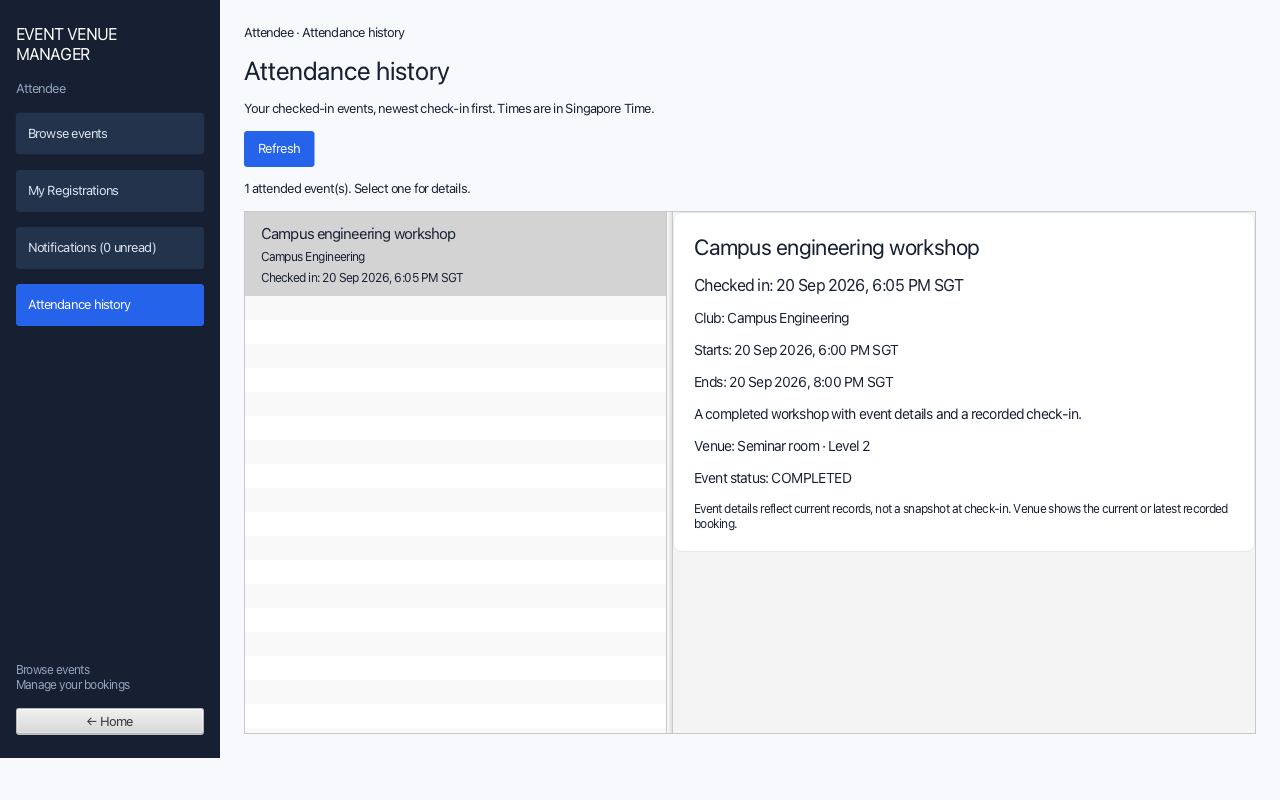
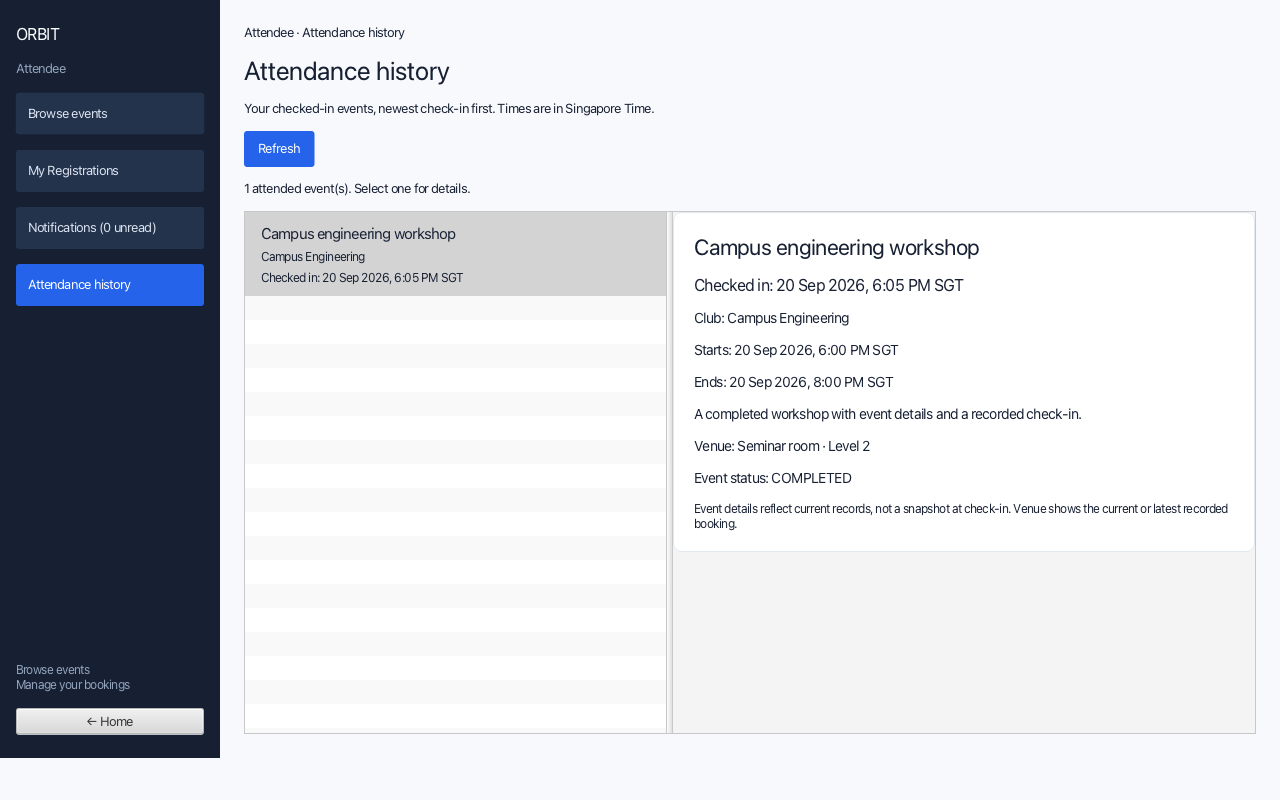
Rename the app to Orbit for v1.0.1
- Window title, login heading, role sidebars and --version show Orbit.
- Release jar is Orbit-<version>.jar and the release is titled Orbit <tag>;
  version 1.0.1.
- Diagnostic log folder is ~/.orbit/logs.
- README, guides and website use the Orbit name; four website screenshots
  re-captured from the Attendee smoke tasks.
- Database, schema, packages and .env variable names are unchanged.

Changed region(s): [[0.0, 0.0312, 0.1562, 0.4062]]

diff --git a/docs/index.html b/docs/index.html
@@ -1,7 +1,7 @@
 ---
 layout: default
 title: Campus events, all in one place
-description: Plan an event, find a venue and join your campus community with Orbit's Event Venue Manager.
+description: Plan an event, find a venue and join your campus community with Orbit, the campus event venue manager.
 ---
 <main id="main" tabindex="-1">
   <section class="hero container" aria-labelledby="hero-title">
@@ -29,7 +29,7 @@ description: Plan an event, find a venue and join your campus community with Orb
   <section class="product-preview container" aria-labelledby="preview-title">
     <div class="section-heading compact"><h2 id="preview-title">Your next campus event starts here.</h2><span class="eyebrow">Inside the desktop app</span></div>
     <figure class="screenshot">
-      <div class="window-label"><span aria-hidden="true">● ● ●</span> Event Venue Manager / Attendee workspace</div>
+      <div class="window-label"><span aria-hidden="true">● ● ●</span> Orbit / Attendee workspace</div>
       <a href="{{ '/assets/images/attendee-browse.png' | relative_url }}" aria-label="Open full-size screenshot of the Attendee workspace">
         <img src="{{ '/assets/images/attendee-browse.png' | relative_url }}" alt="Attendee Browse events screen with club and date filters, a list of events, and a side-by-side details panel showing venue, seats and check-in availability." width="1280" height="800" fetchpriority="high">
       </a>

diff --git a/src/main/java/seedu/eventmanager/Main.java b/src/main/java/seedu/eventmanager/Main.java
@@ -7,7 +7,7 @@ import javafx.application.Platform;
 import seedu.eventmanager.demo.DemoDataSeeder;
 import seedu.eventmanager.ui.EventManagerApplication;
 
-/** Starts the Event Venue Manager application. */
+/** Starts Orbit, the campus event venue manager. */
 public final class Main {
     /** The release version from the jar manifest (set by build.gradle), or "development" from source. */
     public static final String VERSION = versionOf(Main.class.getPackage().getImplementationVersion());
@@ -22,7 +22,7 @@ public final class Main {
     /** Starts the application. */
     public static void main(String[] args) {
         if (args.length == 1 && "--version".equals(args[0])) {
-            System.out.println("Event Venue Manager " + VERSION);
+            System.out.println("Orbit " + VERSION);
             return;
         }
         if (args.length == 1 && "--seed-demo".equals(args[0])) {

diff --git a/src/main/java/seedu/eventmanager/common/DiagnosticLog.java b/src/main/java/seedu/eventmanager/common/DiagnosticLog.java
@@ -22,13 +22,13 @@ public final class DiagnosticLog {
 
     private DiagnosticLog() { }
 
-    /** Directory from EVENT_MANAGER_LOG_DIR, otherwise ~/.event-venue-manager/logs. */
+    /** Directory from EVENT_MANAGER_LOG_DIR, otherwise ~/.orbit/logs. */
     public static Path defaultDirectory(Map<String, String> environment, String userHome) {
         String override = environment.get("EVENT_MANAGER_LOG_DIR");
         if (override != null && !override.isBlank()) {
             return Path.of(override);
         }
-        return Path.of(userHome, ".event-venue-manager", "logs");
+        return Path.of(userHome, ".orbit", "logs");
     }
 
     /** Installs the file handler once and returns the current log file. */

diff --git a/src/main/java/seedu/eventmanager/ui/EventManagerApplication.java b/src/main/java/seedu/eventmanager/ui/EventManagerApplication.java
@@ -87,7 +87,7 @@ public final class EventManagerApplication extends Application {
         }
         LOGGER.info("app_started", Map.of("version", Main.VERSION, "java", Runtime.version().toString(),
                 "os", System.getProperty("os.name") + " " + System.getProperty("os.arch")));
-        stage.setTitle("Event Venue Manager");
+        stage.setTitle("Orbit");
         BorderPane root = new BorderPane();
         root.setStyle("-fx-background-color: #f7f9fc;");
         showHome(root);

diff --git a/src/test/java/seedu/eventmanager/common/DiagnosticLogTest.java b/src/test/java/seedu/eventmanager/common/DiagnosticLogTest.java
@@ -32,7 +32,7 @@ class DiagnosticLogTest {
     void defaultDirectory_prefersEnvironmentOverride() {
         assertEquals(Path.of("/tmp/custom-logs"),
                 DiagnosticLog.defaultDirectory(Map.of("EVENT_MANAGER_LOG_DIR", "/tmp/custom-logs"), "/home/tester"));
-        assertEquals(Path.of("/home/tester", ".event-venue-manager", "logs"),
+        assertEquals(Path.of("/home/tester", ".orbit", "logs"),
                 DiagnosticLog.defaultDirectory(Map.of(), "/home/tester"));
     }
 

diff --git a/src/main/java/seedu/eventmanager/ui/HomeAuthenticationView.java b/src/main/java/seedu/eventmanager/ui/HomeAuthenticationView.java
@@ -36,7 +36,7 @@ public final class HomeAuthenticationView extends VBox {
         setSpacing(12);
         setPadding(new Insets(32));
         setMaxWidth(900);
-        Label heading = new Label("Event Venue Manager");
+        Label heading = new Label("Orbit");
         heading.setStyle("-fx-font-size: 24px; -fx-font-weight: bold;");
         username.setPromptText("Username");
         password.setPromptText("Password");

diff --git a/src/main/java/seedu/eventmanager/ui/OrganizerEventView.java b/src/main/java/seedu/eventmanager/ui/OrganizerEventView.java
@@ -246,7 +246,7 @@ public final class OrganizerEventView extends BorderPane {
         sidebar.setStyle(SIDEBAR_STYLE);
         VBox.setVgrow(sidebar, Priority.ALWAYS);
 
-        Label brand = new Label("EVENT VENUE\nMANAGER");
+        Label brand = new Label("ORBIT");
         brand.setStyle("-fx-text-fill: white; -fx-font-size: 16px; -fx-font-weight: bold;");
 
         Label role = new Label("Club Organizer");

diff --git a/src/main/java/seedu/eventmanager/ui/AttendeeBrowseView.java b/src/main/java/seedu/eventmanager/ui/AttendeeBrowseView.java
@@ -111,7 +111,7 @@ public final class AttendeeBrowseView extends BorderPane implements AutoCloseabl
     }
 
     private VBox sidebar(Runnable onHome) {
-        Label brand = text("EVENT VENUE\nMANAGER", "white", 16);
+        Label brand = text("ORBIT", "white", 16);
         Label role = text("Attendee", "#93a4bd", 13);
         Button browse = browseNav;
         browse.setMaxWidth(Double.MAX_VALUE);

diff --git a/src/main/java/seedu/eventmanager/ui/VenueAdministratorDashboardView.java b/src/main/java/seedu/eventmanager/ui/VenueAdministratorDashboardView.java
@@ -55,7 +55,7 @@ public final class VenueAdministratorDashboardView {
         sidebar.setPrefWidth(220);
         sidebar.setStyle("-fx-background-color: #172033;");
 
-        Label brand = new Label("EVENT VENUE\nMANAGER");
+        Label brand = new Label("ORBIT");
         brand.setStyle("-fx-text-fill: white; -fx-font-size: 16px; -fx-font-weight: bold;");
         sidebar.getChildren().add(brand);
 

diff --git a/src/main/java/seedu/eventmanager/ui/VenueAdministratorFxApplication.java b/src/main/java/seedu/eventmanager/ui/VenueAdministratorFxApplication.java
@@ -27,7 +27,7 @@ public final class VenueAdministratorFxApplication extends Application {
 
     @Override
     public void start(Stage stage) {
-        stage.setTitle("Event Venue Manager");
+        stage.setTitle("Orbit");
         stage.setScene(new Scene(createRoot(), WIDTH, HEIGHT));
         stage.show();
         stage.setMaximized(true);

diff --git a/docs/DeveloperGuide.md b/docs/DeveloperGuide.md
@@ -2,11 +2,11 @@
 title: Developer guide
 ---
 
-# Event Venue Manager Developer Guide
+# Orbit Developer Guide
 
 ## Acknowledgements
 
-Event Venue Manager is a CS3227 MP2 team project with three roles: Club Organizer, Venue Administrator, and Attendee.
+Orbit, an event venue manager, is a CS3227 MP2 team project with three roles: Club Organizer, Venue Administrator, and Attendee.
 
 Libraries:
 
@@ -66,7 +66,7 @@ The app is one JavaFX process. The UI calls role services. Services enforce owne
 
 ```mermaid
 flowchart TB
-  accTitle: Event Venue Manager architecture
+  accTitle: Orbit architecture
   accDescr: JavaFX workspaces call Organizer, Venue Administrator and Attendee services, which use JDBC repositories to access PostgreSQL.
   UI[JavaFX workspaces]
   Org[Organizer services]
@@ -261,7 +261,7 @@ There is no automated end-to-end desktop test across all three roles. Attendee s
 
 Pull requests that change `build.gradle`, `src/main` or the workflow run steps 1–2 only, so every change is checked on all three systems before a release.
 
-`releaseJar` builds `build/release/EventVenueManager-<version>.jar`. It holds the app, all runtime dependencies, and JavaFX for Windows (`win`), Linux (`linux`) and Apple Silicon macOS (`mac-aarch64`). The per-OS native libraries have different names (`.dll`, `.so`, `.dylib`), so they coexist in one jar. The Intel macOS libraries use the same names as the Apple Silicon ones, so Intel Macs are not supported by the jar. Each platform’s JavaFX jars come from their own Gradle configuration, because Gradle rejects two platform variants of one module in a single configuration. `mergeServiceFiles` merges the `META-INF/services` files of all dependencies. Without it, Flyway would keep only one copy and lose its PostgreSQL plugin inside the jar. The manifest sets `Main-Class` and `Enable-Native-Access: ALL-UNNAMED`.
+`releaseJar` builds `build/release/Orbit-<version>.jar`. It holds the app, all runtime dependencies, and JavaFX for Windows (`win`), Linux (`linux`) and Apple Silicon macOS (`mac-aarch64`). The per-OS native libraries have different names (`.dll`, `.so`, `.dylib`), so they coexist in one jar. The Intel macOS libraries use the same names as the Apple Silicon ones, so Intel Macs are not supported by the jar. Each platform’s JavaFX jars come from their own Gradle configuration, because Gradle rejects two platform variants of one module in a single configuration. `mergeServiceFiles` merges the `META-INF/services` files of all dependencies. Without it, Flyway would keep only one copy and lose its PostgreSQL plugin inside the jar. The manifest sets `Main-Class` and `Enable-Native-Access: ALL-UNNAMED`.
 
 The release version comes from `version` in `build.gradle`: it names the jar and is written to the manifest, and `--version` reads it from there (running from source prints `development`). The publish step refuses a tag that does not match the jar, so bump `version` before releasing.
 
@@ -273,7 +273,7 @@ This is local diagnostics for a desktop app, not a hosted monitoring or alerting
 
 | Part | Where | What it does |
 | --- | --- | --- |
-| Diagnostic log | `DiagnosticLog` | Sends all `java.util.logging` output to a rotating file (`app-0.log`, 5 × 1 MB) in `~/.event-venue-manager/logs`, or in `EVENT_MANAGER_LOG_DIR`. Uncaught exceptions on any thread are logged as `uncaught_exception`. |
+| Diagnostic log | `DiagnosticLog` | Sends all `java.util.logging` output to a rotating file (`app-0.log`, 5 × 1 MB) in `~/.orbit/logs`, or in `EVENT_MANAGER_LOG_DIR`. Uncaught exceptions on any thread are logged as `uncaught_exception`. |
 | Structured events | `StructuredLogger` | One-line `event=… key=value` records: `app_started`, `database_health`, `database_unavailable`, `database_not_configured`, `database_migration_failed`, `login_succeeded` (role only), `login_failed` (exception type only), `workspace_failed`, `app_stopped`, and the Venue Administrator decision events. |
 | Metrics | `InMemoryMetrics` via `Monitoring.metrics()` | Thread-safe counters and gauges, for example `app.login_succeeded.<role>`, `app.login_failed`, `app.database_unavailable`, `database.latency_ms`, and the Venue Administrator `venue_requests.*` counters. They replace `NoopMetrics` as the default in `VenueAdministratorServiceFactory`. The snapshot is written to the log in `app_stopped`. |
 | Health check | `DatabaseHealth` | Before migrations, connects with a 5-second timeout and runs `SELECT 1`. The login screen shows the result and the log path. On failure, the error screen shows a safe cause (derived from the SQL state), the current folder and a **Try again** button. |

diff --git a/docs/UserGuide.md b/docs/UserGuide.md
@@ -2,9 +2,9 @@
 title: User guide
 ---
 
-# Event Venue Manager User Guide
+# Orbit User Guide
 
-Event Venue Manager is a desktop app for campus events. Three kinds of people use it:
+Orbit is an event venue manager: a desktop app for campus events. Three kinds of people use it:
 
 * A **Club Organizer** plans a club’s events, asks for a room, and tells registered students what is happening.
 * A **Venue Administrator** looks after rooms and says yes or no to booking requests.
@@ -42,7 +42,7 @@ You click through a window. You do not type commands. Everyone signs in on the s
 
    Then create a database named `event_manager`, for example with `createdb event_manager` (or `sudo -u postgres createdb event_manager` on Linux, or pgAdmin on Windows). The database user in `.env` should own that database, because the first start creates the tables and the `btree_gist` extension.
 3. Get the app in one of two ways:
-   * **Download the jar (recommended for testers).** On the [Releases page](https://github.com/CS3227-2610-MP2-Orbit/CS3227-2610-MP2/releases), download `EventVenueManager-<version>.jar`. The same jar runs on Windows, Linux and Apple Silicon Macs. Put it in its own folder.
+   * **Download the jar (recommended for testers).** On the [Releases page](https://github.com/CS3227-2610-MP2-Orbit/CS3227-2610-MP2/releases), download `Orbit-<version>.jar`. The same jar runs on Windows, Linux and Apple Silicon Macs. Put it in its own folder.
    * **Run from the source code.** Clone the repository and work in the project folder.
 4. In that folder, create a file named `.env`. Copy [`.env.example`](https://github.com/CS3227-2610-MP2-Orbit/CS3227-2610-MP2/blob/HEAD/.env.example) (release downloads include it as `env.example`; rename it to `.env`) and use your own database username:
 
@@ -58,7 +58,7 @@ You click through a window. You do not type commands. Everyone signs in on the s
 5. Start the app from that folder:
 
    ```sh
-   java -jar EventVenueManager-<version>.jar
+   java -jar Orbit-<version>.jar
    ```
 
    From the source code, run `./gradlew run` instead (on Windows: `.\gradlew.bat run`).
@@ -76,7 +76,7 @@ You click through a window. You do not type commands. Everyone signs in on the s
 A new database has no events. To get sample data for every role, run this once from the folder that contains your `.env`:
 
 ```sh
-java -jar EventVenueManager-<version>.jar --seed-demo
+java -jar Orbit-<version>.jar --seed-demo
 ```
 
 From the source code: `./gradlew seedDemo`. Running it again changes nothing.
@@ -397,7 +397,7 @@ A: Only published events appear. A draft stays invisible until the organizer pub
 A: Check that PostgreSQL is running and that `.env` is in the folder you started the app from (the screen shows that folder). Fix `.env`, then select **Try again**.
 
 **Q: Where can I find the app’s log if something goes wrong?**  
-A: In `~/.event-venue-manager/logs/app-0.log` (your home folder). The login screen shows the exact path. The log never contains your password.
+A: In `~/.orbit/logs/app-0.log` (your home folder). The login screen shows the exact path. The log never contains your password.
 
 ---
 
